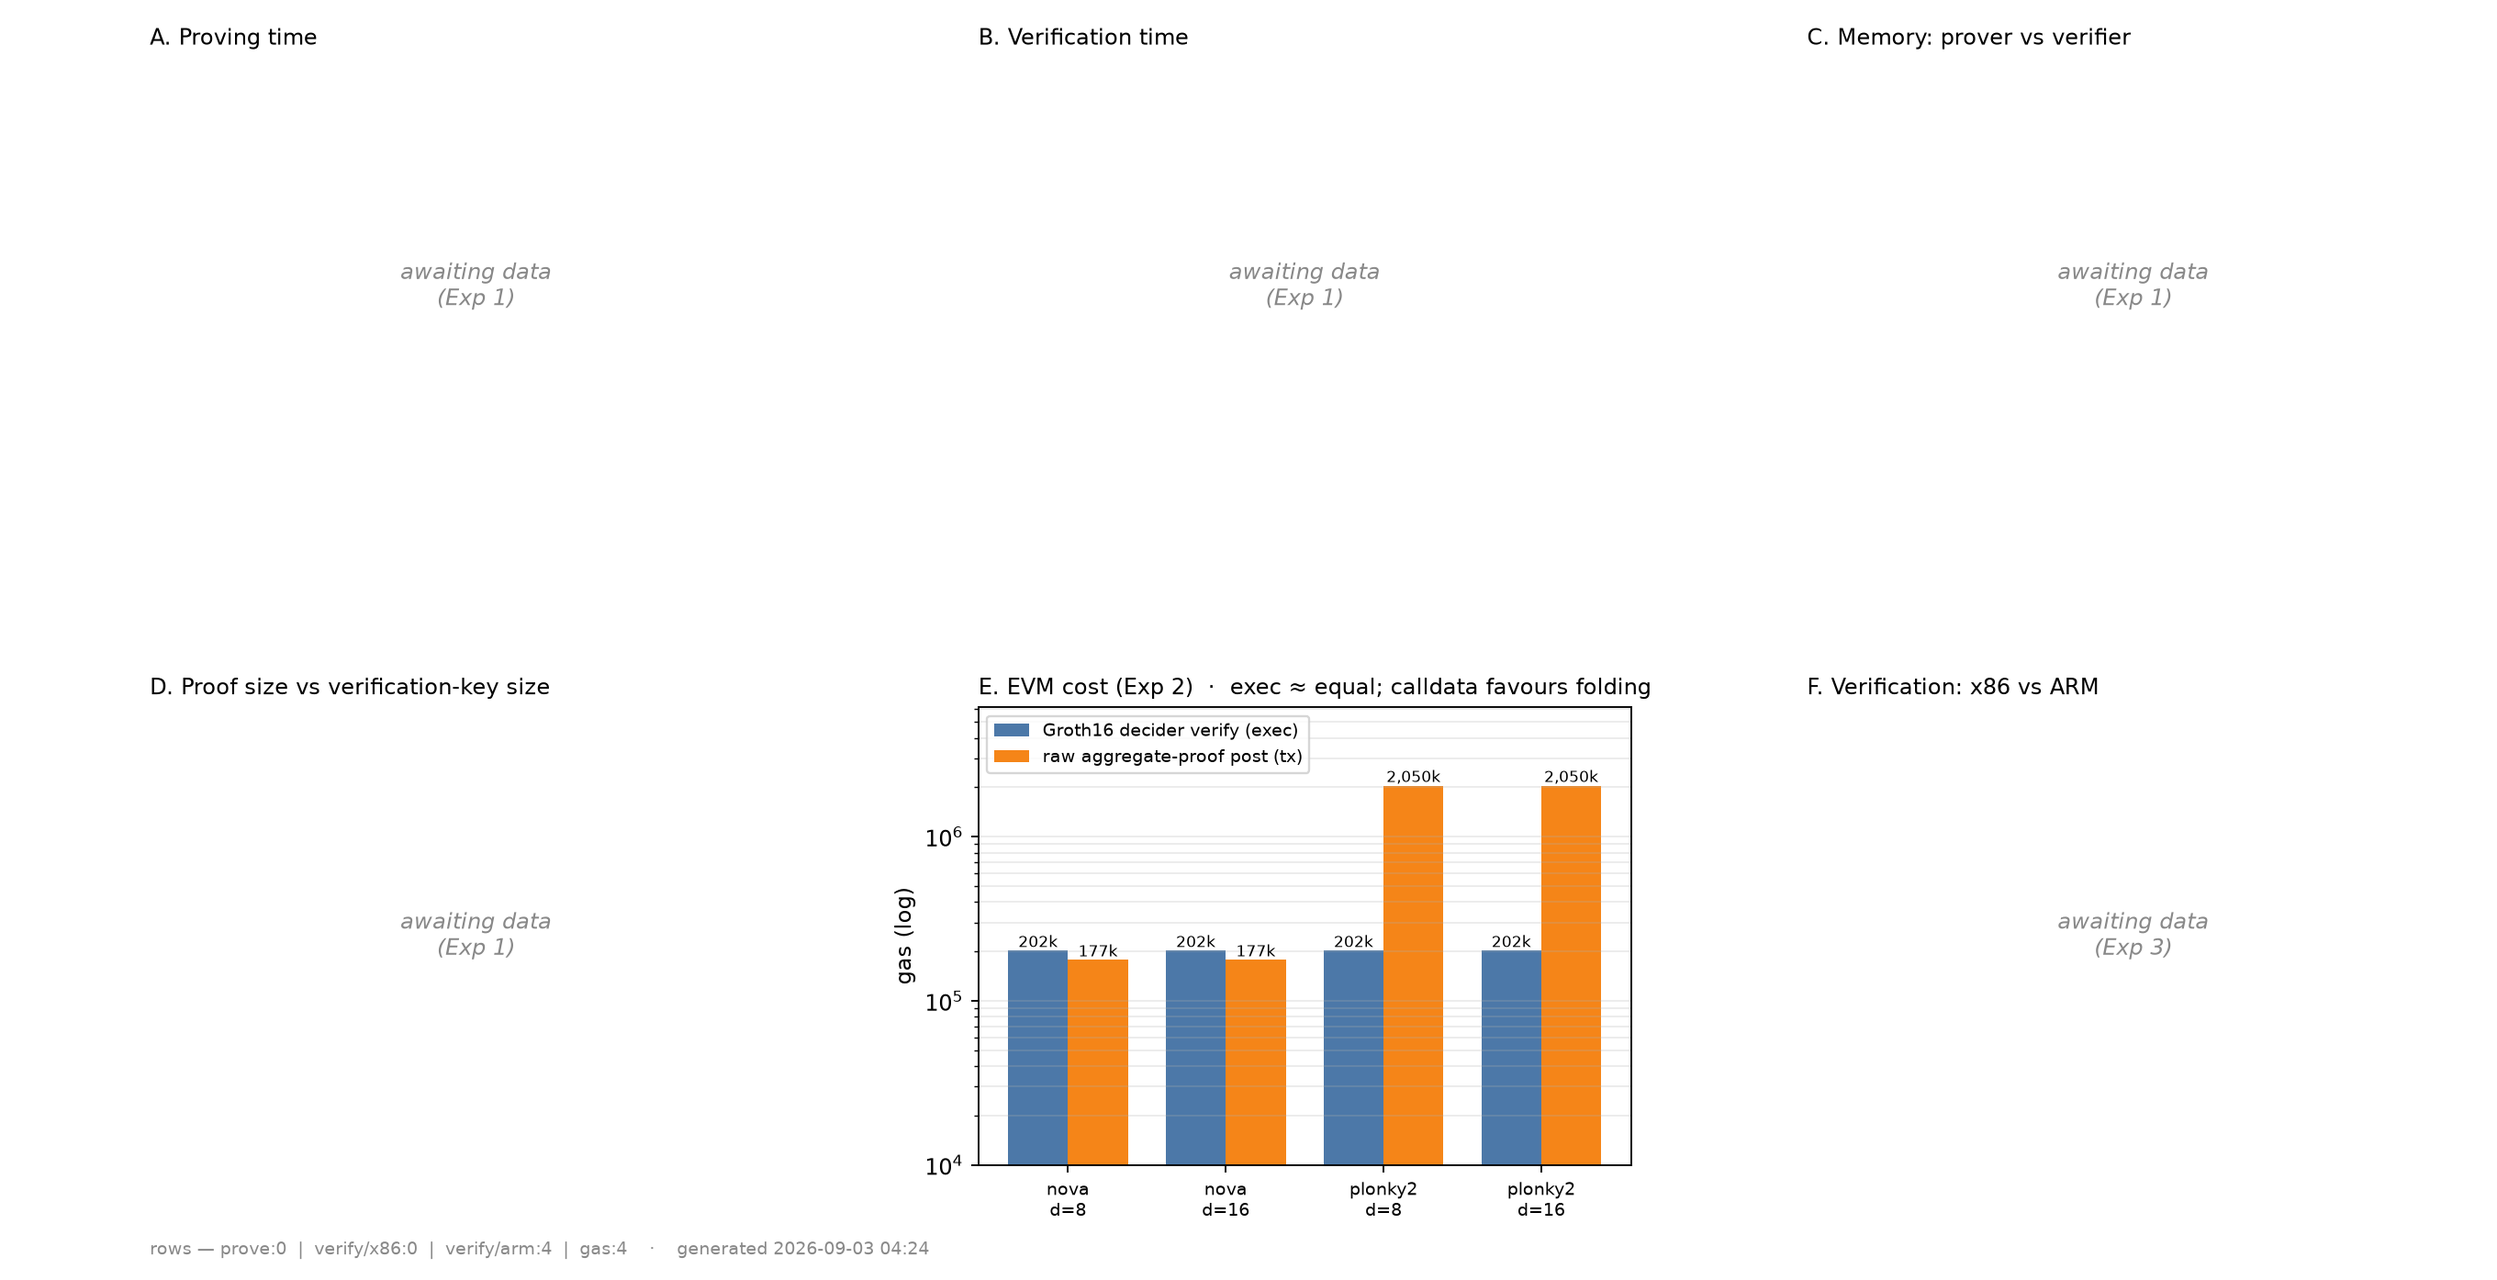
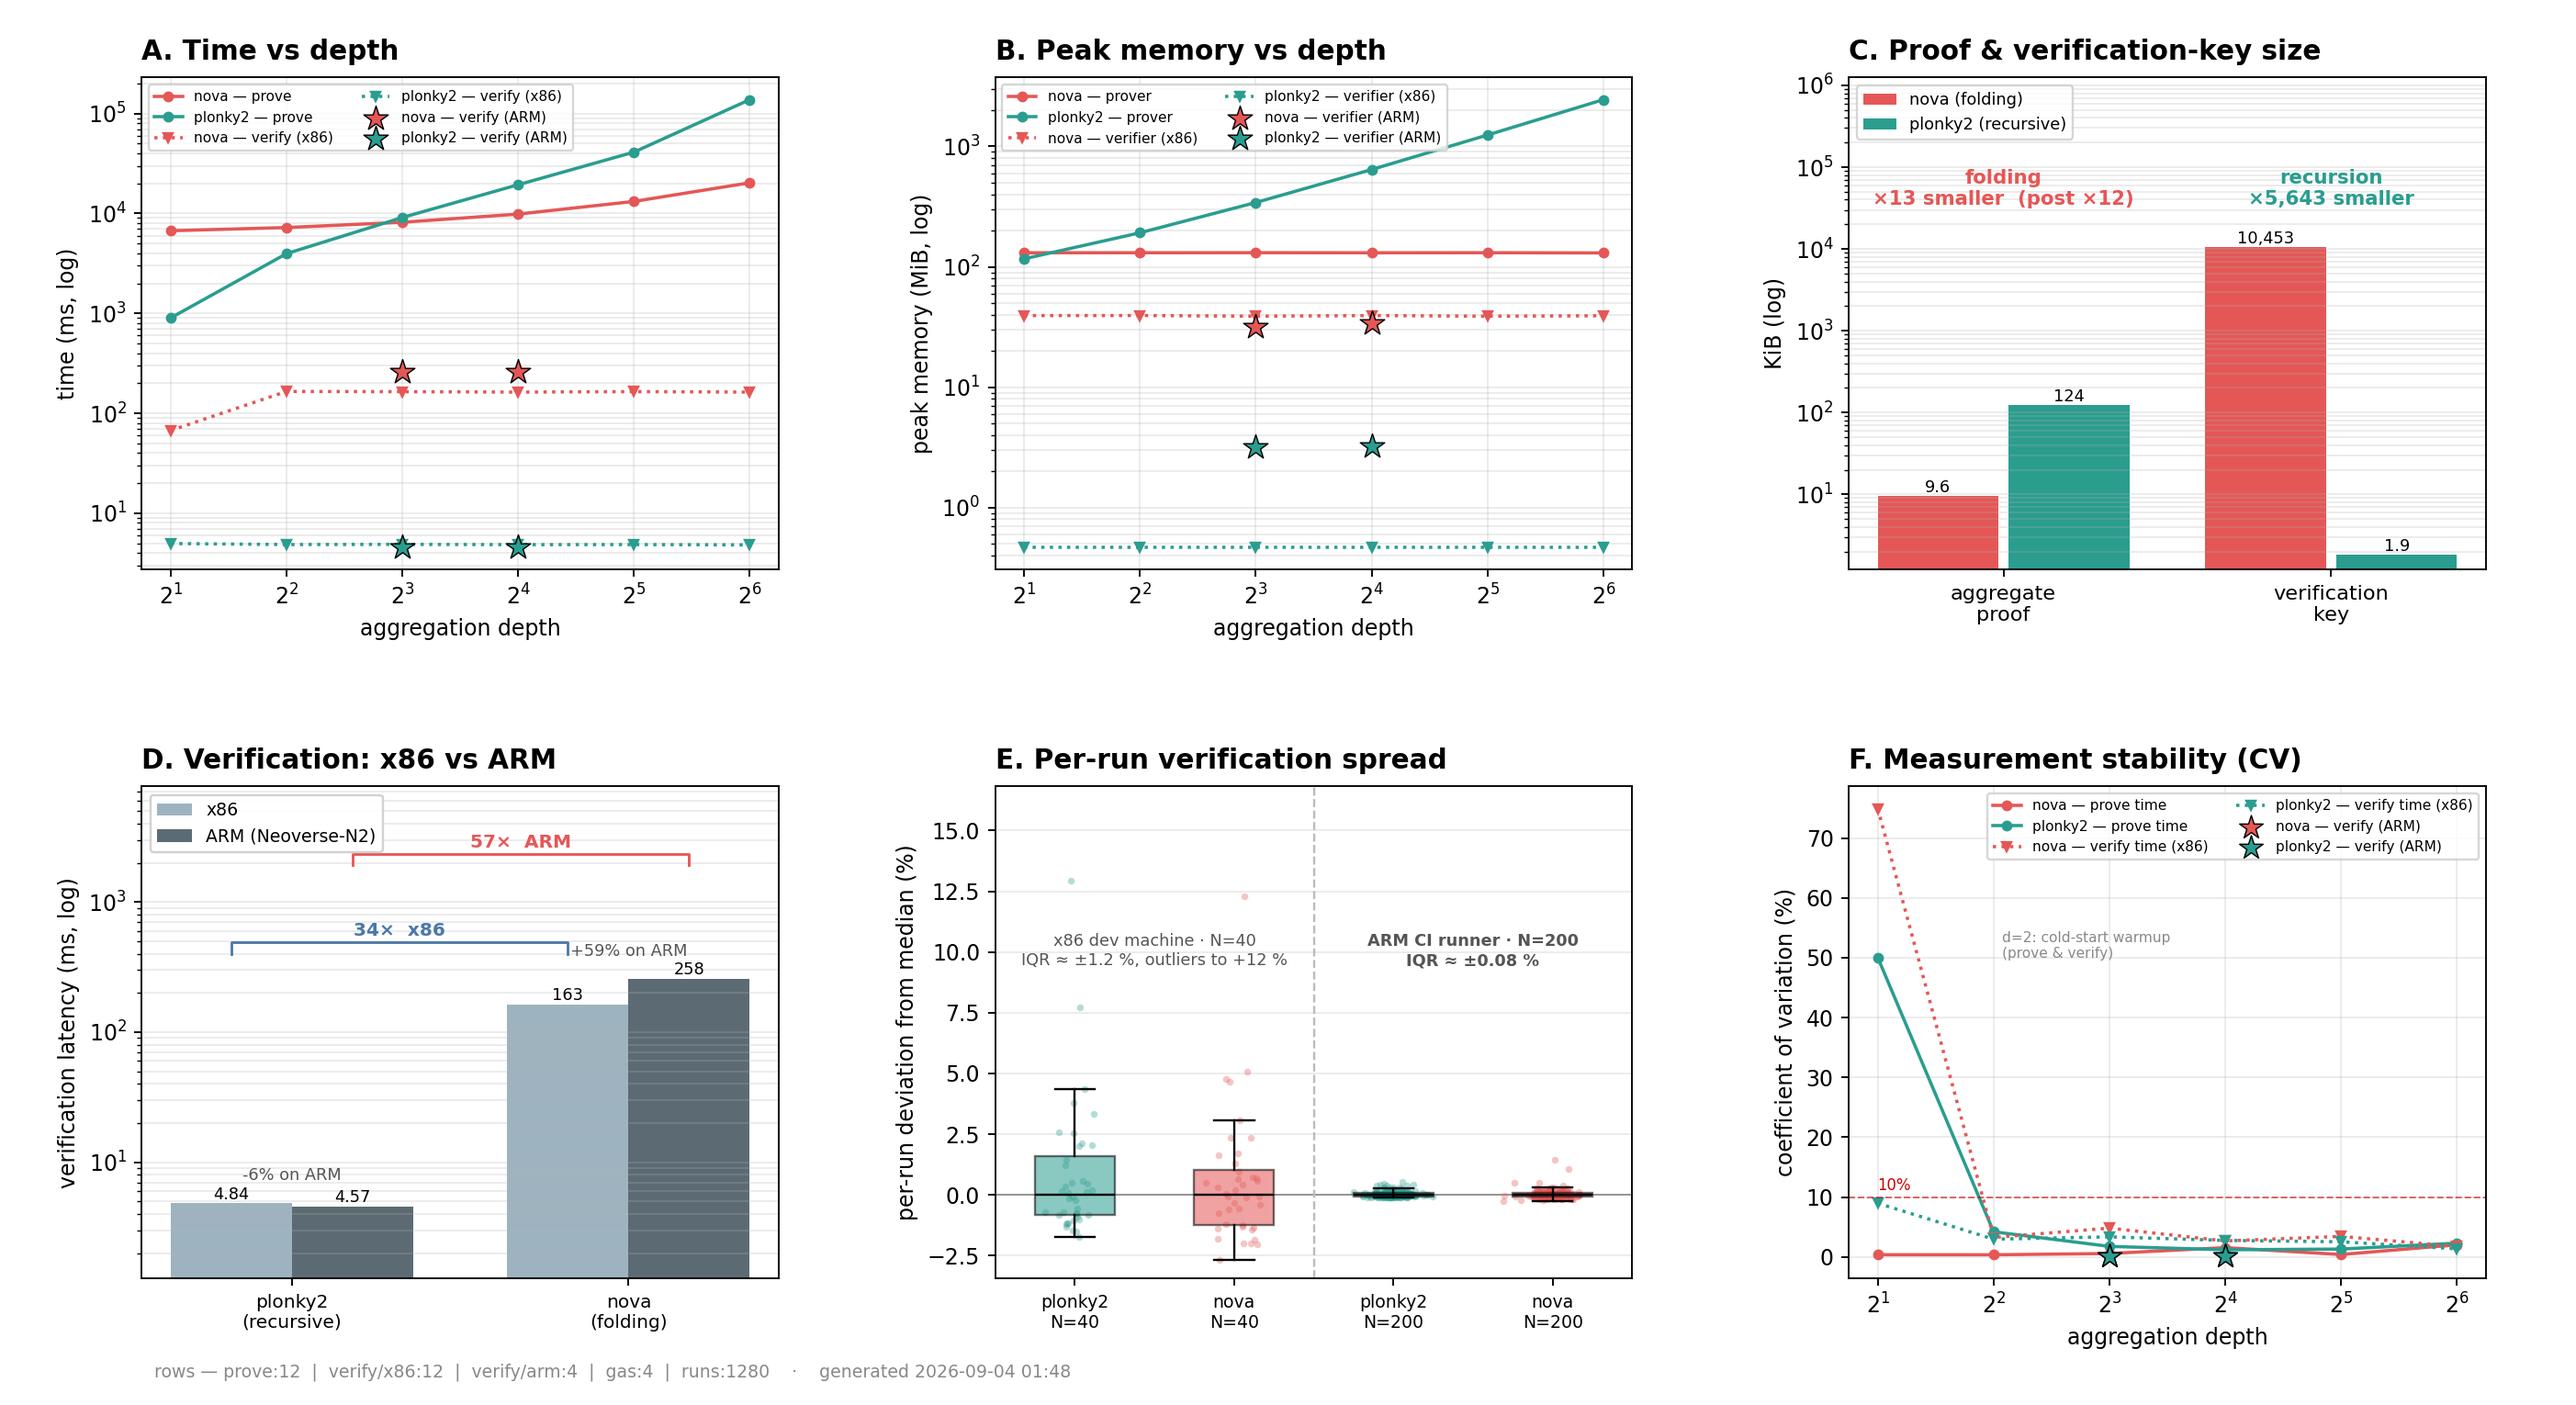
dashboard: panel F — clean d=32 proving CV, drop host-noise call-out
The d=32 proving-time CV spike was dev-machine contention, not a
depth-specific effect. Replaced only the d=32 rows in the proving
series with a quiet 15-run measurement (CV 18.5% -> 1.3%); panel F
now shows every point under 10% except the d=2 cold-start warmup.
Removed the now-stale "plonky2 prove d=32: host noise" annotation
and relabelled the remaining call-out.

diff --git a/analysis/dashboard.py b/analysis/dashboard.py
@@ -318,11 +318,8 @@ def panel_cv(ax, sp, vx, va):
                        label=f"{s} — verify (ARM)")
     ax.axhline(10, color="#c00", lw=0.8, ls="--", alpha=0.6)
     ax.text(2, 10.5, "10%", color="#c00", fontsize=7, va="bottom")
-    ax.annotate("nova d=2: cold-start warmup artifact", xy=(4.2, 55),
+    ax.annotate("d=2: cold-start warmup\n(prove & verify)", xy=(4.2, 52),
                 fontsize=6.5, color="#888", ha="left", va="center")
-    ax.annotate("plonky2 prove d=32:\nhost noise", xy=(20, 18), xytext=(9, 30),
-                fontsize=6.5, color="#888",
-                arrowprops=dict(arrowstyle="->", color="#aaa", lw=0.7))
     _depthx(ax)
     ax.set_ylabel("coefficient of variation (%)")
     ax.legend(fontsize=6.5, ncol=2)
